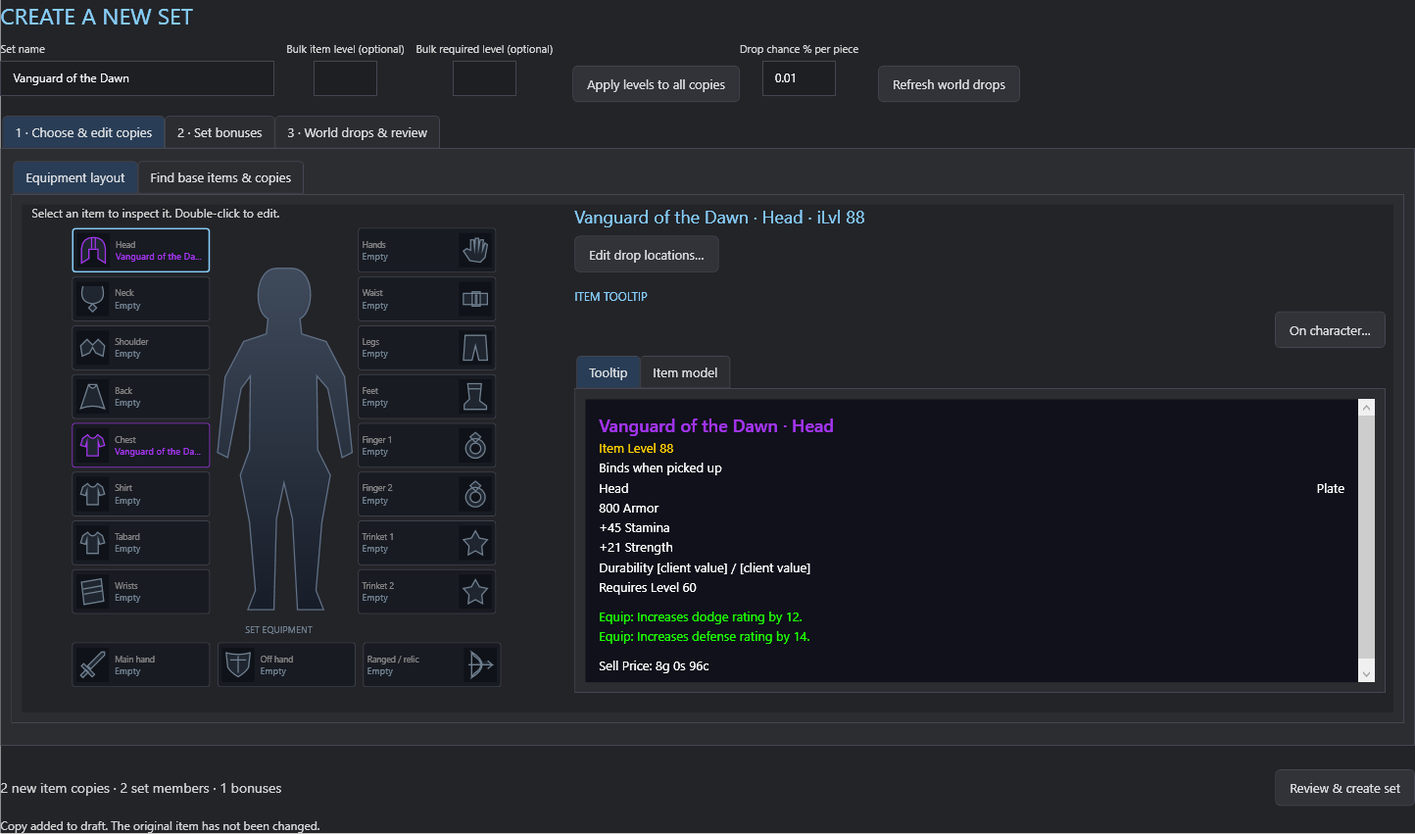
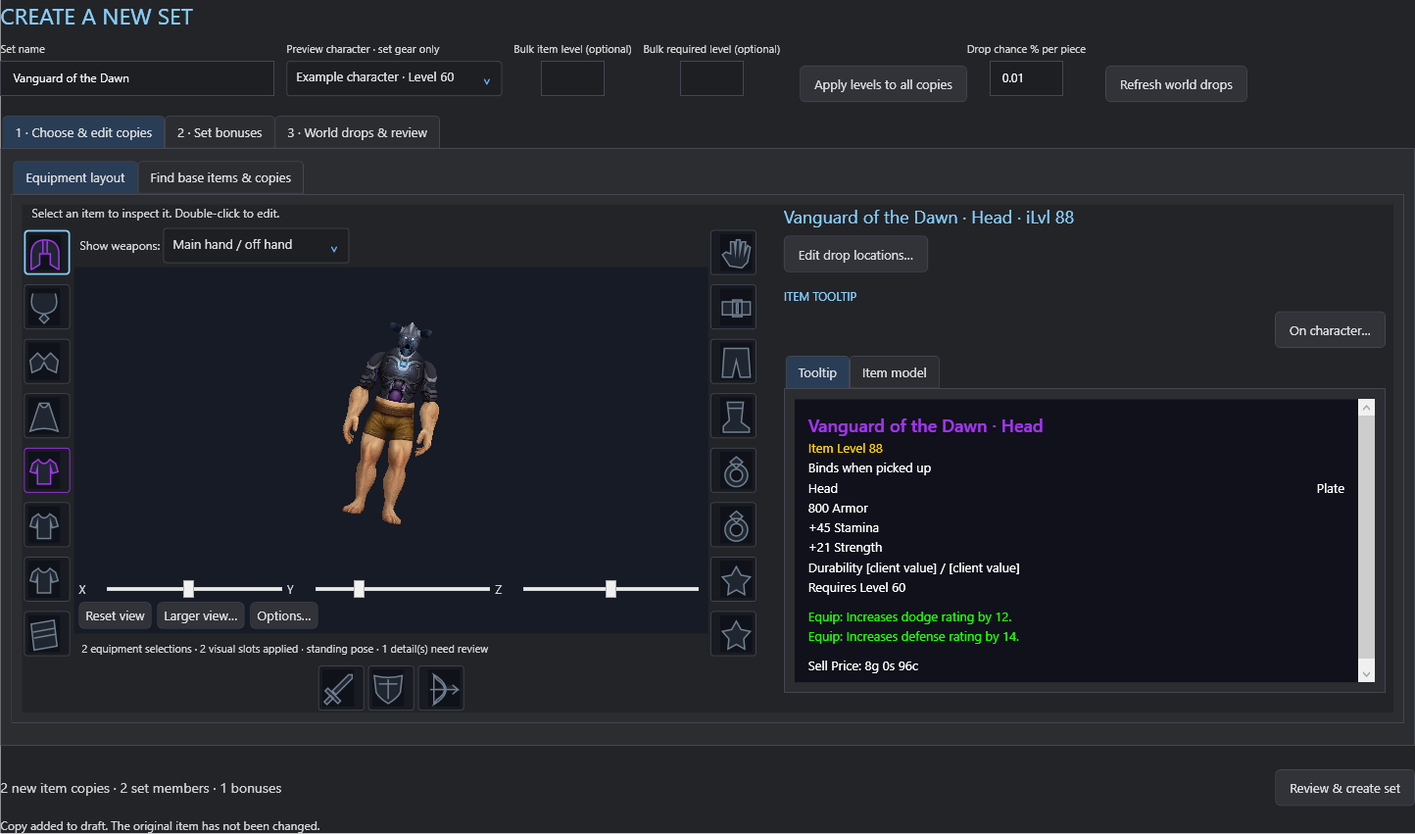
Preview draft set equipment on the selected saved character in 3D

diff --git a/src/WoWItemEditor/Views/Sets/SetCreatorWindow.cs b/src/WoWItemEditor/Views/Sets/SetCreatorWindow.cs
@@ -7,6 +7,13 @@ namespace WoWItemEditor;
 
 internal sealed class SetCreatorWindow : Window
 {
+    private readonly ComboBox previewCharacter=new(){Width=220};
+    private bool choosingCharacter;
+    private int characterRequest;
+    internal Task PreviewLoading {get;private set;}=Task.CompletedTask;
+    internal Task ModelLoading=>equipment.ModelLoading;
+    internal CharacterScene? ModelScene=>equipment.ModelScene;
+    internal ModelCharacter? PreviewProfile=>equipment.PreviewProfile;
     private readonly CatalogResult catalog;
     private readonly ReferenceCatalog refs;
     private readonly ItemKindFilter itemKinds;
@@ -30,16 +37,27 @@ internal sealed class SetCreatorWindow : Window
     private readonly TaskCompletionSource ready=new();
     internal SetCreationResult? Result {get;private set;}
     internal Task Ready=>ready.Task;
-    internal SetCreatorWindow(CatalogResult catalog,ReferenceCatalog refs)
+    internal SetCreatorWindow(CatalogResult catalog,ReferenceCatalog refs,CharacterInfo? selectedCharacter=null)
     {
-        this.catalog=catalog;this.refs=refs;itemKinds=new(catalog.Tooltips,true);itemKinds.Changed+=FilterBases;Title="Set creator · new copies, original items preserved";Width=1500;Height=930;MinWidth=1200;MinHeight=780;Background=new SolidColorBrush(Color.FromRgb(35,36,40));WindowStartupLocation=WindowStartupLocation.CenterOwner;
+        equipment.EnableCharacterPreview();this.catalog=catalog;this.refs=refs;itemKinds=new(catalog.Tooltips,true);itemKinds.Changed+=FilterBases;Title="Set creator · new copies, original items preserved";Width=1500;Height=930;MinWidth=1200;MinHeight=780;Background=new SolidColorBrush(Color.FromRgb(35,36,40));WindowStartupLocation=WindowStartupLocation.CenterOwner;
         var root=new DockPanel{Margin=new Thickness(20),Background=Background};Content=root;var title=DesignerWindow.Text("CREATE A NEW SET",23);title.Foreground=Brushes.LightSkyBlue;DockPanel.SetDock(title,Dock.Top);root.Children.Add(title);
-        var controls=new WrapPanel{Margin=new Thickness(0,12,0,12)};DockPanel.SetDock(controls,Dock.Top);root.Children.Add(controls);Field(controls,"Set name",name);Field(controls,"Bulk item level (optional)",bulkLevel);Field(controls,"Bulk required level (optional)",bulkRequired);var bulk=DesignerWindow.Button("Apply levels to all copies",controls);bulk.VerticalAlignment=VerticalAlignment.Bottom;bulk.Click+=(_,_)=>ApplyBulk();Field(controls,"Drop chance % per piece",chance);chance.ToolTip="0.01% = 1 in 10,000 per eligible creature, per piece, before server rate multipliers.";var replan=DesignerWindow.Button("Refresh world drops",controls);replan.VerticalAlignment=VerticalAlignment.Bottom;replan.Click+=async(_,_)=>await RefreshWorld();
+        var controls=new WrapPanel{Margin=new Thickness(0,12,0,12)};DockPanel.SetDock(controls,Dock.Top);root.Children.Add(controls);Field(controls,"Set name",name);Field(controls,"Preview character · set gear only",previewCharacter);previewCharacter.SelectionChanged+=async(_,_)=>{if(!choosingCharacter)await (PreviewLoading=LoadPreviewCharacter());};Field(controls,"Bulk item level (optional)",bulkLevel);Field(controls,"Bulk required level (optional)",bulkRequired);var bulk=DesignerWindow.Button("Apply levels to all copies",controls);bulk.VerticalAlignment=VerticalAlignment.Bottom;bulk.Click+=(_,_)=>ApplyBulk();Field(controls,"Drop chance % per piece",chance);chance.ToolTip="0.01% = 1 in 10,000 per eligible creature, per piece, before server rate multipliers.";var replan=DesignerWindow.Button("Refresh world drops",controls);replan.VerticalAlignment=VerticalAlignment.Bottom;replan.Click+=async(_,_)=>await RefreshWorld();
         DockPanel.SetDock(feedback,Dock.Bottom);feedback.Margin=new Thickness(0,12,0,0);root.Children.Add(feedback);var actions=new DockPanel{Margin=new Thickness(0,12,0,0)};DockPanel.SetDock(actions,Dock.Bottom);root.Children.Add(actions);DockPanel.SetDock(create,Dock.Right);actions.Children.Add(create);actions.Children.Add(summary);root.Children.Add(body);body.Children.Add(tabs);tabs.Items.Add(new TabItem{Header="1 · Choose & edit copies",Content=ChoosePieces()});tabs.Items.Add(new TabItem{Header="2 · Set bonuses",Content=BonusPage()});tabs.Items.Add(new TabItem{Header="3 · World drops & review",Content=DropPage()});
         create.Click+=async(_,_)=>await Save();name.TextChanged+=(_,_)=>Render();pieces.SelectionChanged+=(_,_)=>RenderPiece();bonuses.SelectionChanged+=(_,_)=>{if(bonuses.SelectedItem is ContentRow row)threshold.Text=row.Pieces.ToString();Render();};
-        Loaded+=async(_,_)=>{await RefreshWorld();ready.TrySetResult();};Closing+=(_,e)=>{if(busy){e.Cancel=true;return;}if(Result is null&&draft.Count>0&&!discard&&MessageBox.Show(this,"Discard the unsaved set and item copies? No items have been created yet.","Unsaved set",MessageBoxButton.YesNo,MessageBoxImage.Question)!=MessageBoxResult.Yes)e.Cancel=true;else closed=true;};
+        Loaded+=async(_,_)=>{await Task.WhenAll(RefreshWorld(),LoadPreviewCharacters(selectedCharacter));ready.TrySetResult();};Closing+=(_,e)=>{if(busy){e.Cancel=true;return;}if(Result is null&&draft.Count>0&&!discard&&MessageBox.Show(this,"Discard the unsaved set and item copies? No items have been created yet.","Unsaved set",MessageBoxButton.YesNo,MessageBoxImage.Question)!=MessageBoxResult.Yes)e.Cancel=true;else closed=true;};
         slot.ItemsSource=GearDesign.EquipmentSlots.Select(p=>new FilterChoice(p.Key,p.Value)).ToList();slot.SelectedIndex=0;rarity.ItemsSource=new[]{new FilterChoice(-1,"All rarities")}.Concat(CatalogItem.Qualities.Select((q,n)=>new FilterChoice(n,q))).ToList();rarity.SelectedIndex=0;FilterBases();bonuses.Columns[1]=new DataGridTextColumn{Header="Bonus spell",Binding=new System.Windows.Data.Binding("SpellId"){Converter=new SpellLabelConverter(refs.Data)},Width=new DataGridLength(1,DataGridLengthUnitType.Star)};
     }
+    private async Task LoadPreviewCharacters(CharacterInfo? initial)
+    {
+        try{var characters=await CharacterRepository.ListAsync();if(closed)return;choosingCharacter=true;previewCharacter.ItemsSource=characters;previewCharacter.SelectedItem=characters.FirstOrDefault(c=>c.Guid==initial?.Guid)??characters.FirstOrDefault();choosingCharacter=false;await (PreviewLoading=LoadPreviewCharacter());}catch(Exception ex){choosingCharacter=false;equipment.PreviewPending("Could not load characters: "+ex.Message);}
+    }
+    private async Task LoadPreviewCharacter()
+    {
+        int token=++characterRequest;equipment.PreviewPending("Loading selected character appearance…");if(previewCharacter.SelectedItem is not CharacterInfo selected){equipment.PreviewPending("No saved characters available. Set creation still works.");return;}
+        try{var profile=await ModelCharacterRepository.Load(selected);if(token!=characterRequest||closed)return;equipment.SetPreviewCharacter(profile);}catch(Exception ex){if(token==characterRequest&&!closed)equipment.PreviewPending("Appearance unavailable: "+ex.Message);}
+    }
+    internal void UseDocumentationPreview(){choosingCharacter=true;previewCharacter.ItemsSource=new[]{new CharacterInfo(0,"Example character",60,1,false,0)};previewCharacter.SelectedIndex=0;choosingCharacter=false;equipment.SetPreviewCharacter(new(1,0,"Example character"));}
+    internal void RemovePreviewPiece(int target){var piece=draft.FirstOrDefault(p=>p.Slot==target);if(piece is not null){draft.Remove(piece);Render();}}
     private static void Field(Panel parent,string title,Control control){var panel=new StackPanel{Margin=new Thickness(0,0,12,6)};panel.Children.Add(DesignerWindow.Text(title,11));control.Margin=new Thickness(0,5,0,0);panel.Children.Add(control);parent.Children.Add(panel);}
     private FrameworkElement ChoosePieces()
     {

diff --git a/src/WoWItemEditor/Controls/EquipmentSetView.cs b/src/WoWItemEditor/Controls/EquipmentSetView.cs
@@ -9,6 +9,11 @@ internal sealed record EquipmentViewItem(object Key,CatalogItem Item,int? Slot=n
 
 internal sealed class EquipmentSetView : Grid
 {
+    private DockPanel leftHost=null!;
+    private CharacterModelView? characterModel;
+    internal Task ModelLoading=>characterModel?.Loading??Task.CompletedTask;
+    internal CharacterScene? ModelScene=>characterModel?.Scene;
+    internal ModelCharacter? PreviewProfile=>modelProfile;
     private readonly Grid board=new(){Width=526,Height=560};
     private readonly Viewbox mannequin=new(){Stretch=Stretch.Uniform,StretchDirection=StretchDirection.DownOnly,HorizontalAlignment=HorizontalAlignment.Center,VerticalAlignment=VerticalAlignment.Top};
     private readonly StackPanel tooltip=new();
@@ -43,7 +48,7 @@ internal sealed class EquipmentSetView : Grid
     internal EquipmentSetView()
     {
         ColumnDefinitions.Add(new(){Width=new GridLength(550)});ColumnDefinitions.Add(new(){Width=new GridLength(1,GridUnitType.Star)});
-        var left=new DockPanel{Margin=new Thickness(0,0,10,0)};Children.Add(left);note.Margin=new Thickness(10,0,0,8);DockPanel.SetDock(note,Dock.Top);left.Children.Add(note);
+        var left=leftHost=new DockPanel{Margin=new Thickness(0,0,10,0)};Children.Add(left);note.Margin=new Thickness(10,0,0,8);DockPanel.SetDock(note,Dock.Top);left.Children.Add(note);
         var extras=extraPanel;extras.Header="Additional pieces / slot conflicts";extras.Content=overflow;extras.Margin=new Thickness(10,6,0,0);DockPanel.SetDock(extras,Dock.Bottom);left.Children.Add(extras);overflow.SelectionChanged+=(_,_)=>{if(!binding&&overflow.SelectedItem is EquipmentViewItem row)Select(row);};overflow.MouseDoubleClick+=(_,_)=>{if(!readOnly&&overflow.SelectedItem is EquipmentViewItem row)EditRequested?.Invoke(row);};
         mannequin.Child=board;left.Children.Add(mannequin);
         Background=new SolidColorBrush(Color.FromRgb(35,36,40));
@@ -55,8 +60,20 @@ internal sealed class EquipmentSetView : Grid
         var pane=new DockPanel{Margin=new Thickness(6,0,0,0)};SetColumn(pane,1);Children.Add(pane);DockPanel.SetDock(heading,Dock.Top);heading.Foreground=Brushes.LightSkyBlue;heading.Margin=new Thickness(8,0,0,8);pane.Children.Add(heading);DockPanel.SetDock(drops,Dock.Top);pane.Children.Add(drops);drops.Click+=(_,_)=>RequestSelectedDrops();pane.Children.Add(DesignerWindow.Preview(tooltip,"ITEM TOOLTIP"));
         TooltipView.Fill(tooltip,[new("Select an occupied equipment slot.",ItemTooltip.Gray)]);
     }
+    internal void EnableCharacterPreview()
+    {
+        if(characterModel is not null)return;ColumnDefinitions[0].Width=new GridLength(1.2,GridUnitType.Star);leftHost.Children.Remove(mannequin);characterModel=new(savedAppearance:true,portrait:true);
+        var layout=new Grid();layout.ColumnDefinitions.Add(new(){Width=new GridLength(53)});layout.ColumnDefinitions.Add(new());layout.ColumnDefinitions.Add(new(){Width=new GridLength(53)});for(int n=0;n<8;n++)layout.RowDefinitions.Add(new());layout.RowDefinitions.Add(new(){Height=GridLength.Auto});leftHost.Children.Add(layout);Grid.SetColumn(characterModel,1);Grid.SetRowSpan(characterModel,8);layout.Children.Add(characterModel);
+        int[] left=[0,1,2,14,4,3,18,8],right=[9,5,6,7,10,11,12,13];
+        foreach(var (slot,frame) in frames){board.Children.Remove(frame);frame.Width=47;frame.Height=46;frame.Margin=new Thickness(2);labels[slot].Visibility=Visibility.Collapsed;if(frame.Child is DockPanel row&&row.Children.OfType<Border>().FirstOrDefault() is {} icon){icon.Width=33;icon.Margin=new Thickness(0);row.Margin=new Thickness(3);}if(slot is 15 or 16 or 17)continue;int index=Array.IndexOf(left,slot);Grid.SetColumn(frame,index>=0?0:2);Grid.SetRow(frame,index>=0?index:Array.IndexOf(right,slot));layout.Children.Add(frame);}
+        var hands=new WrapPanel{HorizontalAlignment=HorizontalAlignment.Center};Grid.SetColumnSpan(hands,3);Grid.SetRow(hands,8);layout.Children.Add(hands);foreach(int slot in new[]{15,16,17})hands.Children.Add(frames[slot]);characterModel.Pending("Choose a character to preview this set.");
+    }
+    internal void SetPreviewCharacter(ModelCharacter profile){modelProfile=profile;RefreshCharacter();ItemVisualPreview.Outfit(tooltip,equipped.Where(p=>p.Value.Active).ToDictionary(p=>p.Key,p=>p.Value.Item),profile);}
+    internal void PreviewPending(string message){modelProfile=null;characterModel?.Pending(message);}
+    private void RefreshCharacter(){if(modelProfile is not null)characterModel?.Bind(equipped.Where(p=>p.Value.Active).ToDictionary(p=>p.Key,p=>p.Value.Item),modelProfile);}
     protected override Size MeasureOverride(Size availableSize)
     {
+        if(characterModel is not null)return base.MeasureOverride(availableSize);
         mannequin.MaxHeight=double.IsInfinity(availableSize.Height)?560:Math.Max(0,availableSize.Height-38-(extraPanel.Visibility==Visibility.Visible?30+(extraPanel.IsExpanded?Math.Min(110,Overflow.Count*30+8):0):0));
         return base.MeasureOverride(availableSize);
     }
@@ -91,7 +108,7 @@ internal sealed class EquipmentSetView : Grid
             var targets=row.Slot.HasValue?new[]{row.Slot.Value}:GearDesign.Targets(row.Item);int? target=targets.Where(s=>frames.ContainsKey(s)&&!equipped.ContainsKey(s)&&!(s==16&&equipped.GetValueOrDefault(15)?.Item.Slot==17)).Cast<int?>().FirstOrDefault();
             if(!target.HasValue){extra.Add(row);continue;}equipped[target.Value]=row;
         }
-        ItemVisualPreview.Outfit(tooltip,equipped.Where(p=>p.Value.Active).ToDictionary(p=>p.Key,p=>p.Value.Item),modelProfile);Overflow=extra;extraPanel.Visibility=extra.Count>0?Visibility.Visible:Visibility.Collapsed;extraPanel.Header=$"Additional pieces / slot conflicts ({extra.Count})";binding=true;overflow.ItemsSource=extra;overflow.SelectedItem=null;binding=false;
+        RefreshCharacter();ItemVisualPreview.Outfit(tooltip,equipped.Where(p=>p.Value.Active).ToDictionary(p=>p.Key,p=>p.Value.Item),modelProfile);Overflow=extra;extraPanel.Visibility=extra.Count>0?Visibility.Visible:Visibility.Collapsed;extraPanel.Header=$"Additional pieces / slot conflicts ({extra.Count})";binding=true;overflow.ItemsSource=extra;overflow.SelectedItem=null;binding=false;
         foreach(int slot in frames.Keys){labels[slot].Children.Clear();bool filled=equipped.TryGetValue(slot,out var row);var color=filled?row!.Item.NameBrush:Brushes.SlateGray;symbols[slot].Stroke=color;frames[slot].Opacity=filled&&!row!.Active?0.55:1;
             labels[slot].Children.Add(new TextBlock{Text=GearDesign.EquipmentSlots[slot],FontSize=10,Foreground=Brushes.Gray});labels[slot].Children.Add(new TextBlock{Text=filled?row!.Item.Name:slot==16&&equipped.GetValueOrDefault(15)?.Item.Slot==17?"Two-hand weapon":"Empty",FontSize=11,Foreground=color,TextTrimming=TextTrimming.CharacterEllipsis});frames[slot].ToolTip=readOnly&&filled?row!.Item.Name+" · select for tooltip":filled?$"{row!.Item.Name}\nItem level {row.Item.ItemLevel}\nSelect for tooltip · double-click to edit":GearDesign.EquipmentSlots[slot];}
         var selected=entries.FirstOrDefault(e=>Equals(e.Key,selectedKey))??entries.FirstOrDefault(e=>e.Item.Id==Selection?.Item.Id&&e.Slot==Selection.Slot)??entries.FirstOrDefault();if(selected is not null)Select(selected);else ClearSelection();

diff --git a/tests/WoWItemEditor.Verification/MainWindow.SetCreatorVerification.cs b/tests/WoWItemEditor.Verification/MainWindow.SetCreatorVerification.cs
@@ -35,7 +35,7 @@ public partial class MainWindow
         }finally{await tx.RollbackAsync();}}finally{using var release=new MySqlCommand("SELECT RELEASE_LOCK('anocore_studio_forge')",db);await release.ExecuteScalarAsync();}
         Assert(HistoryActions.Canonical(await ItemCloning.CaptureAsync(db,null,22416,sourceA.SourceScope))==HistoryActions.Canonical(sourceA.SourceExpected),"Set tests left source data unchanged");
         var pieceEditor=new ItemEditorWindow(catalog,22416,draft:first.Draft){Owner=this};pieceEditor.Show();await pieceEditor.SelectAsync(22416);pieceEditor.SetDraftValue("Display","Draft-only renamed copy");Assert(pieceEditor.AcceptSetDraft().Name=="Draft-only renamed copy","Set-piece editor applies to a pending copy");pieceEditor.ResetDraft();pieceEditor.Close();Assert(HistoryActions.Canonical(await ItemCloning.CaptureAsync(db,null,22416,sourceA.SourceScope))==HistoryActions.Canonical(sourceA.SourceExpected),"Applying a piece draft does not write its base item");
-        var window=new SetCreatorWindow(catalog,refs){Owner=this};window.Show();await window.Ready;window.SetVerificationName("Vanguard of the Dawn");await window.AddPiece(22416,4);await window.AddPiece(22418,0);window.AddVerificationBonus(bonuses[0]);await RenderEditorWindow(window,"set-creator-items-preview");window.SelectVerificationTab(1);await RenderEditorWindow(window,"set-creator-bonuses-preview");window.SelectVerificationTab(2);await RenderEditorWindow(window,"set-creator-drops-preview");window.DiscardVerification();window.Close();
-        await File.WriteAllTextAsync("artifacts/set-creator-verification.json",JsonSerializer.Serialize(new{createdSet,createdItems,eligibleCreatures=first.Drops.Targets.Count,lootRows,checks="Original sources preserved; new set and duplicate IDs; private bonus amounts; terrain-derived zones; level-appropriate outdoor loot, no Durotar/bosses/instances; 0.01% per piece; atomic creation; group revert/reapply; edited levels update loot and undo/redo restores it; later-edit conflicts; modify created set membership, duplicate additions, detach removals preserving drops, rename, stale save, revert/reapply; all game test writes rolled back"},new JsonSerializerOptions{WriteIndented=true}));
+        var previewHero=(await CharacterRepository.ListAsync()).FirstOrDefault();var window=new SetCreatorWindow(catalog,refs,previewHero){Owner=this};window.Show();await window.Ready;await window.ModelLoading;if(previewHero is not null){Assert(window.ModelScene is {Equipped:0},"An empty set renders the selected character with no saved equipment");var expectedProfile=await ModelCharacterRepository.Load(previewHero);Assert(window.PreviewProfile==expectedProfile||window.PreviewProfile?.Name==expectedProfile.Name&&window.PreviewProfile.Race==expectedProfile.Race&&window.PreviewProfile.Sex==expectedProfile.Sex&&window.ModelScene!.Customizations.All(p=>window.PreviewProfile!.Choices?.GetValueOrDefault(p.Key,p.Value)==p.Value),"Set creator uses selected saved character appearance");}window.SetVerificationName("Vanguard of the Dawn");await window.AddPiece(22416,4);await window.AddPiece(22418,0);window.AddVerificationBonus(bonuses[0]);await window.ModelLoading;if(previewHero is not null)Assert(window.ModelScene is {Equipped:2},"Added set copies appear on the selected character");await RenderEditorWindow(window,"set-creator-items-preview");window.SelectVerificationTab(1);await RenderEditorWindow(window,"set-creator-bonuses-preview");window.SelectVerificationTab(2);await RenderEditorWindow(window,"set-creator-drops-preview");window.SelectVerificationTab(0);window.UseDocumentationPreview();await window.ModelLoading;await RenderEditorWindow(window,"set-creator-documentation-preview");window.RemovePreviewPiece(4);await window.ModelLoading;if(previewHero is not null)Assert(window.ModelScene is {Equipped:1},"Removing a set piece removes it from the model");window.RemovePreviewPiece(0);await window.ModelLoading;if(previewHero is not null)Assert(window.ModelScene is {Equipped:0},"Clearing the set returns to an unequipped character");await RenderEditorWindow(window,"set-creator-empty-character-preview");window.DiscardVerification();window.Close();
+        await File.WriteAllTextAsync("artifacts/set-creator-verification.json",JsonSerializer.Serialize(new{createdSet,createdItems,eligibleCreatures=first.Drops.Targets.Count,lootRows,checks="Selected saved character appearance; empty draft has no saved gear; adding and removing copies updates 3D equipment (0,2,1,0); original sources preserved; new set and duplicate IDs; private bonus amounts; terrain-derived zones; level-appropriate outdoor loot, no Durotar/bosses/instances; 0.01% per piece; atomic creation; group revert/reapply; edited levels update loot and undo/redo restores it; later-edit conflicts; modify created set membership, duplicate additions, detach removals preserving drops, rename, stale save, revert/reapply; all game test writes rolled back"},new JsonSerializerOptions{WriteIndented=true}));
     }
 }

diff --git a/src/WoWItemEditor/Views/Items/DesignerWindow.cs b/src/WoWItemEditor/Views/Items/DesignerWindow.cs
@@ -60,7 +60,7 @@ internal sealed class DesignerWindow : Window
         var root=new DockPanel{Margin=new Thickness(20),Background=Background};Content=root;var title=Text("GEAR DESIGNER",23);title.Foreground=Brushes.LightSkyBlue;DockPanel.SetDock(title,Dock.Top);root.Children.Add(title);
         var controls=new WrapPanel{Margin=new Thickness(0,12,0,12)};DockPanel.SetDock(controls,Dock.Top);root.Children.Add(controls);controls.Children.Add(Text("Preview level",13));controls.Children.Add(level);var apply=Button("Apply level",controls);apply.Click+=(_,_)=>{if(!int.TryParse(level.Text,out int n)||n is <1 or >60){feedback.Text="Enter a level from 1 to 60.";return;}previewLevel=n;Update();UpdateSet();};
         var edit=Button("Edit selected item",controls);edit.Click+=async(_,_)=>{if(candidate is not null)await EditItem(candidate.Id);};var duplicate=Button("Duplicate as new item",controls);duplicate.Click+=async(_,_)=>{if(candidate is null)return;var w=new ItemEditorWindow(this.catalog,candidate.Id,true){Owner=this};w.ShowDialog();if(w.Saved){Saved=true;await Refresh();}};
-        var newSet=Button("Create new set…",controls);newSet.Click+=async(_,_)=>{if(busy)return;try{busy=true;var creator=new SetCreatorWindow(this.catalog,await ReferenceCatalog.LoadAsync()){Owner=this};creator.ShowDialog();if(creator.Result is {} result){Saved=true;await Refresh();setSearch.Clear();sets.SelectedItem=sets.Items.Cast<ContentChoice>().FirstOrDefault(s=>s.Id==result.SetId);tabs.SelectedIndex=2;}}catch(Exception ex){feedback.Text=ex.Message;}finally{busy=false;}};
+        var newSet=Button("Create new set…",controls);newSet.Click+=async(_,_)=>{if(busy)return;try{busy=true;var creator=new SetCreatorWindow(this.catalog,await ReferenceCatalog.LoadAsync(),character.SelectedItem as CharacterInfo){Owner=this};creator.ShowDialog();if(creator.Result is {} result){Saved=true;await Refresh();setSearch.Clear();sets.SelectedItem=sets.Items.Cast<ContentChoice>().FirstOrDefault(s=>s.Id==result.SetId);tabs.SelectedIndex=2;}}catch(Exception ex){feedback.Text=ex.Message;}finally{busy=false;}};
         var locations=Button("Candidate drop locations…",controls);locations.Click+=async(_,_)=>{if(candidate is null||busy)return;try{busy=true;var editor=new DropLocationWindow(candidate,persist:true){Owner=this};editor.ShowDialog();if(editor.Saved){Saved=true;await Refresh();}}catch(Exception ex){feedback.Text=ex.Message;}finally{busy=false;}};
         var refresh=Button("Refresh catalog",controls);refresh.Click+=async(_,_)=>await Refresh();DockPanel.SetDock(feedback,Dock.Bottom);feedback.Margin=new Thickness(0,10,0,0);root.Children.Add(feedback);
         var body=new Grid();body.ColumnDefinitions.Add(new(){Width=new GridLength(230)});body.ColumnDefinitions.Add(new(){Width=new GridLength(14)});body.ColumnDefinitions.Add(new());root.Children.Add(body);

diff --git a/src/WoWItemEditor/Views/Shell/MainWindow.xaml.cs b/src/WoWItemEditor/Views/Shell/MainWindow.xaml.cs
@@ -73,7 +73,7 @@ public partial class MainWindow : Window
             BindItems();
             SetCatalogStatus(result);
             if(ItemsGrid.SelectedItem is null && view?.IsEmpty==false) ItemsGrid.SelectedIndex=0;
-            if(verify&&!Environment.GetCommandLineArgs().Contains("--verify-startup")){File.Delete("artifacts/verification-error.txt");if(Environment.GetCommandLineArgs().Contains("--verify-skins")){await VerifySkins(result);}else if(Environment.GetCommandLineArgs().Contains("--verify-saved-appearances")){await VerifySavedAppearances(result);}else if(Environment.GetCommandLineArgs().Contains("--verify-races")){await VerifyRaces(result);}else if(Environment.GetCommandLineArgs().Contains("--verify-character-model")){await VerifyCharacterModel(result);}else if(Environment.GetCommandLineArgs().Contains("--verify-models")){await VerifyModels(result);}else if(Environment.GetCommandLineArgs().Contains("--verify-equipment")){await VerifyEquipmentLayout(result);Close();}else if(Environment.GetCommandLineArgs().Contains("--verify-set-review")){await VerifySetReview(result);Close();}else await VerifyAndRender(result);}
+            if(verify&&!Environment.GetCommandLineArgs().Contains("--verify-startup")){File.Delete("artifacts/verification-error.txt");if(Environment.GetCommandLineArgs().Contains("--verify-set-creator")){await VerifySetCreation(result,await EditorReferences());Close();}else if(Environment.GetCommandLineArgs().Contains("--verify-skins")){await VerifySkins(result);}else if(Environment.GetCommandLineArgs().Contains("--verify-saved-appearances")){await VerifySavedAppearances(result);}else if(Environment.GetCommandLineArgs().Contains("--verify-races")){await VerifyRaces(result);}else if(Environment.GetCommandLineArgs().Contains("--verify-character-model")){await VerifyCharacterModel(result);}else if(Environment.GetCommandLineArgs().Contains("--verify-models")){await VerifyModels(result);}else if(Environment.GetCommandLineArgs().Contains("--verify-equipment")){await VerifyEquipmentLayout(result);Close();}else if(Environment.GetCommandLineArgs().Contains("--verify-set-review")){await VerifySetReview(result);Close();}else await VerifyAndRender(result);}
         }
         catch(Exception ex)
         {

diff --git a/src/WoWItemEditor/Views/Shell/MainWindow.Editors.cs b/src/WoWItemEditor/Views/Shell/MainWindow.Editors.cs
@@ -9,7 +9,7 @@ public partial class MainWindow
     private async void OpenCreatedSets(object sender,RoutedEventArgs e){if(loadedCatalog is null||editorLoading)return;editorLoading=true;try{Status.Text="Loading created sets… Preparing spells and set data.";await System.Windows.Threading.Dispatcher.Yield(System.Windows.Threading.DispatcherPriority.Render);var window=new CreatedSetsWindow(loadedCatalog,await EditorReferences()){Owner=this};window.ShowDialog();if(window.Saved){InvalidateReferences();await LoadCatalog();}}catch(Exception ex){Status.Text="Could not open created sets: "+ex.Message;}finally{editorLoading=false;}}
     private async void OpenSetCreator(object sender,RoutedEventArgs e)
     {
-        if(loadedCatalog is null||editorLoading)return;editorLoading=true;try{var creator=new SetCreatorWindow(loadedCatalog,await EditorReferences()){Owner=this};creator.ShowDialog();if(creator.Result is {} result){InvalidateReferences();await LoadCatalog();var designer=new DesignerWindow(loadedCatalog!,result.Items[0],2){Owner=this};designer.SelectCreatedSet(result.SetId);designer.ShowDialog();if(designer.Saved)await LoadCatalog();}}catch(Exception ex){Status.Text="Could not open set creator: "+ex.Message;}finally{editorLoading=false;}
+        if(loadedCatalog is null||editorLoading)return;editorLoading=true;try{var creator=new SetCreatorWindow(loadedCatalog,await EditorReferences(),CharacterPicker.SelectedItem as CharacterInfo){Owner=this};creator.ShowDialog();if(creator.Result is {} result){InvalidateReferences();await LoadCatalog();var designer=new DesignerWindow(loadedCatalog!,result.Items[0],2){Owner=this};designer.SelectCreatedSet(result.SetId);designer.ShowDialog();if(designer.Saved)await LoadCatalog();}}catch(Exception ex){Status.Text="Could not open set creator: "+ex.Message;}finally{editorLoading=false;}
     }
     private async void OpenDesigner(object sender,RoutedEventArgs e)
     {

diff --git a/src/WoWItemEditor/App.xaml.cs b/src/WoWItemEditor/App.xaml.cs
@@ -5,6 +5,6 @@ public partial class App : Application
     protected override void OnStartup(StartupEventArgs e)
     {
         base.OnStartup(e);
-        new MainWindow(e.Args.Contains("--verify-storage")||e.Args.Contains("--verify-settings")||e.Args.Contains("--verify-startup")||e.Args.Contains("--verify")||e.Args.Contains("--verify-equipment")||e.Args.Contains("--verify-set-review")||e.Args.Contains("--verify-models")||e.Args.Contains("--verify-character-model")||e.Args.Contains("--verify-races")||e.Args.Contains("--verify-skins")||e.Args.Contains("--verify-saved-appearances")).Show();
+        new MainWindow(e.Args.Contains("--verify-set-creator")||e.Args.Contains("--verify-storage")||e.Args.Contains("--verify-settings")||e.Args.Contains("--verify-startup")||e.Args.Contains("--verify")||e.Args.Contains("--verify-equipment")||e.Args.Contains("--verify-set-review")||e.Args.Contains("--verify-models")||e.Args.Contains("--verify-character-model")||e.Args.Contains("--verify-races")||e.Args.Contains("--verify-skins")||e.Args.Contains("--verify-saved-appearances")).Show();
     }
 }

diff --git a/docs/guides/gear-sets.md b/docs/guides/gear-sets.md
@@ -4,7 +4,7 @@
 
 ## Create a new set
 
-1. Open **Set creator** and enter the set name.
+1. Open **Set creator** and enter the set name. **Preview character · set gear only** starts with the character selected in the main screen; choose another saved character there if needed. The 3D model uses that character's saved appearance but starts unequipped. Adding or removing copies updates the model; current inventory equipment is not imported.
 2. In **1 · Choose & edit copies**, use **Find base items & copies** to pick an equipment slot and search/filter base items. Choose **Add duplicate to this slot**. Each selection becomes a separate new item on save; the base remains unchanged.
 3. Repeat for the desired slots. Empty slots are allowed. Two-hand weapons reserve both hands. Shirt and tabard can be outfit copies, but do not count toward the client's 17-member set limit.
 4. Select a piece in **Equipment layout** to inspect its tooltip; double-click it or use **Edit copy draft** to change that copy. In this context **Apply to set draft** returns the item changes to the pending set; the final set save persists them.

diff --git a/README.md b/README.md
@@ -2,6 +2,8 @@
 
 Windows desktop editor for compatible World of Warcraft Classic 1.60.1 server data, with MariaDB-backed item, spell and proc catalogs, character equipment previews and custom set creation.
 
+[Download the Windows preview](https://github.com/marcpnut/WoWItemEditor/releases) · [Folder guide](docs/ARCHITECTURE.md)
+
 ## Editing guides
 
 [Edit or duplicate items](docs/guides/items.md) · [Create and modify gear sets](docs/guides/gear-sets.md) · [Configure weapon procs](docs/guides/weapon-procs.md)
@@ -12,7 +14,7 @@ Item editing with current and draft tooltip comparisons:
 
 ![Item editor](docs/screenshots/item-editor.png)
 
-Set creation with equipment slots and duplicated items:
+Set creation with a live character model, equipment slots and duplicated items:
 
 ![Set creator](docs/screenshots/set-creator.png)
 
